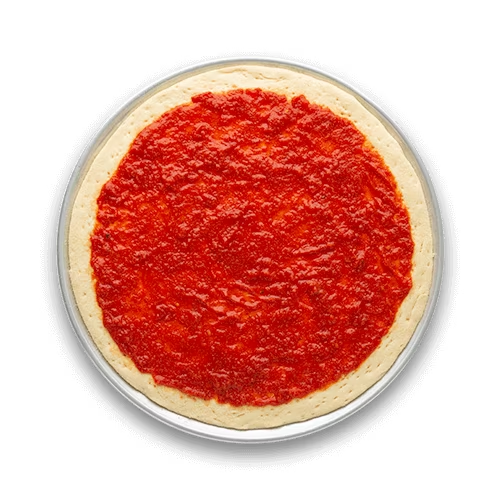
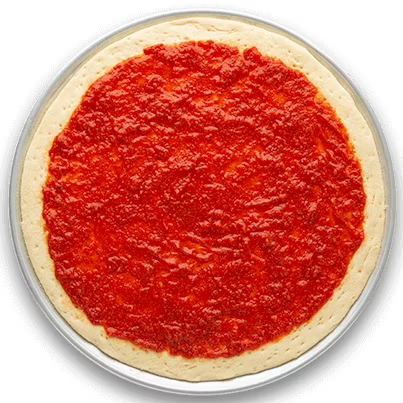
Fix: Remove rotation from pizza
The pizza was too flat, adding unneeded whitespace. In this commit, the image's transparent outer bounds are cropped and the pizza loses its Y-axis rotation.

diff --git a/FinalProject/pizzastyle.css b/FinalProject/pizzastyle.css
@@ -356,10 +356,10 @@ span {
 }
 @keyframes pizza_spin {
   from {
-    transform: rotateX(75deg) rotateZ(0deg);
+    transform: rotateZ(0deg);
   }
   to {
-    transform: rotateX(75deg) rotateZ(360deg);
+    transform: rotateZ(360deg);
   }
 }
 
